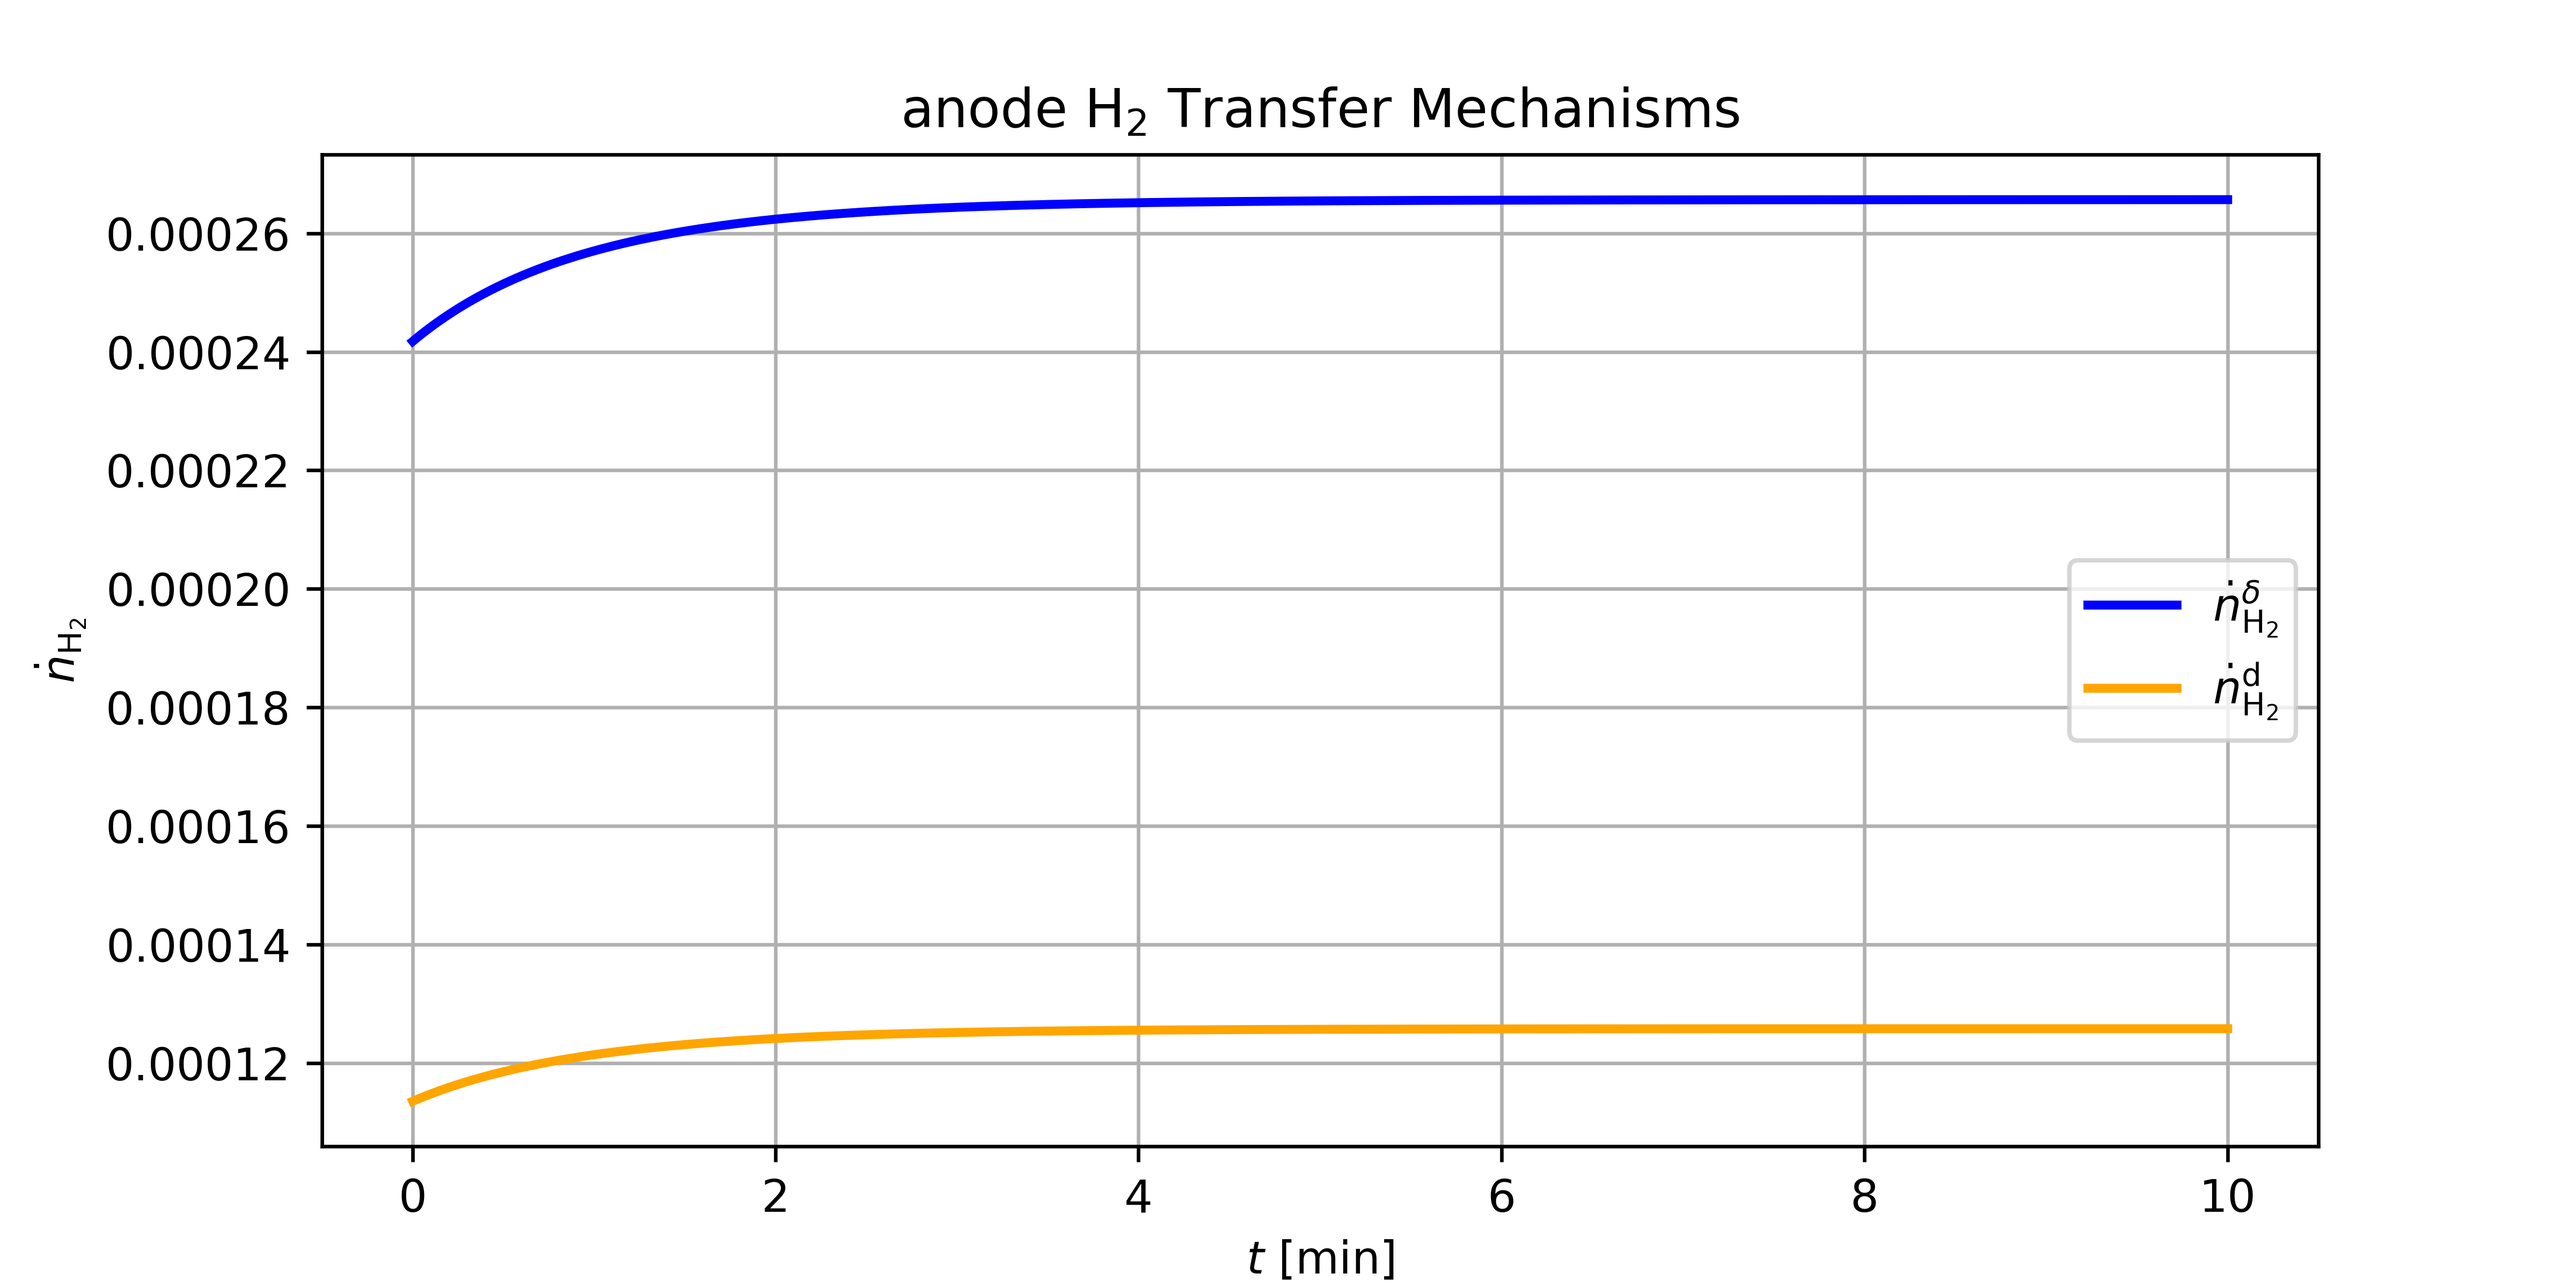
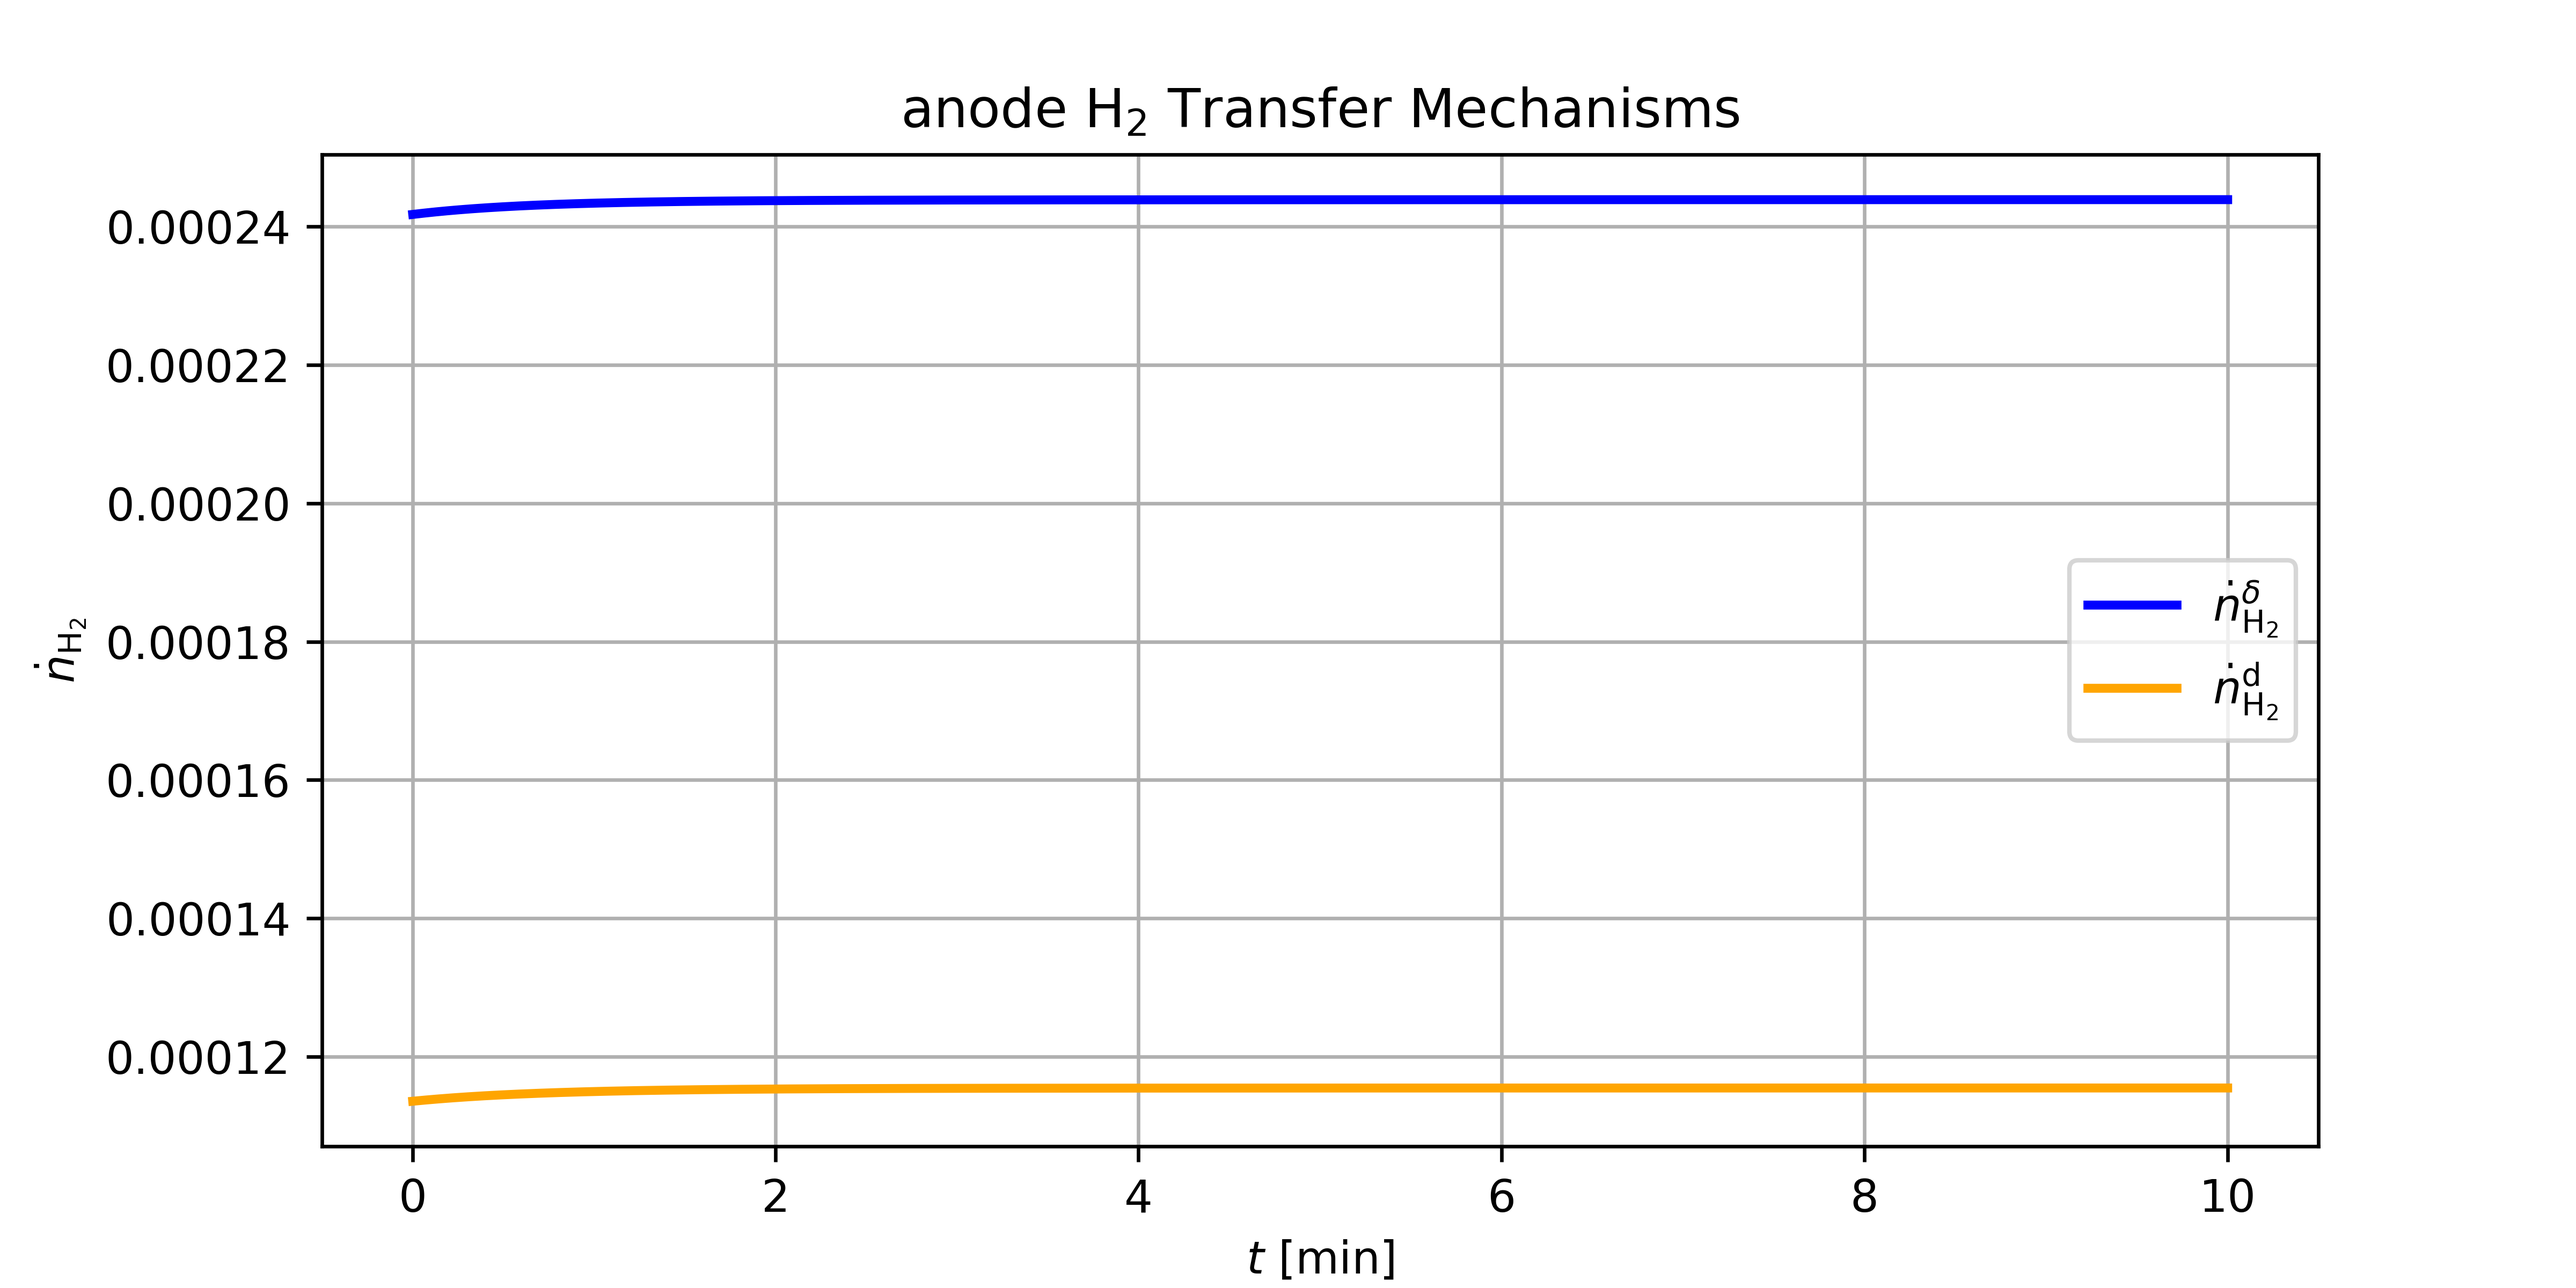
fixed accidental multiplication

diff --git a/python/inef/effluent_valves.py b/python/inef/effluent_valves.py
@@ -24,7 +24,7 @@ def general_valve_effluent(tank: 'Tank', tank_type = Literal["anode", "cathode"]
     Y = 1 - min(1, (2/3)*(pressure_delta /pressure))
     # TODO find these values
     valve_control_signal = p.VALVE_CONTROL_SIGNAL # arbitrary, consider different approaches.
-    valve_mass_flow = valve_control_signal*mass_flow_capacity*Y*pressure_sqrt*0.8185
+    valve_mass_flow = valve_control_signal*mass_flow_capacity*Y*pressure_sqrt
 
     valve_mole_flow = valve_mass_flow/sum_mass
 
